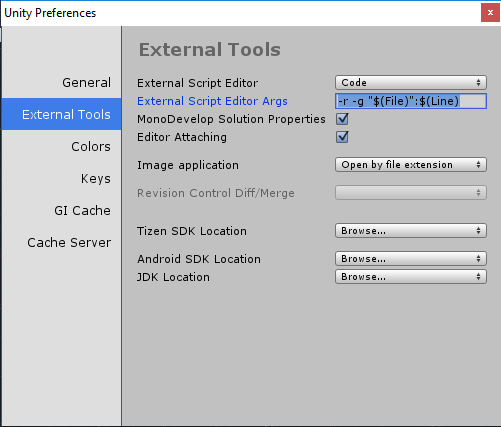
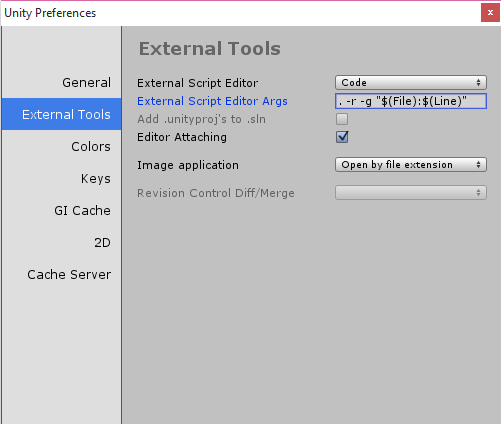
Modified command line arguments
Prefixed the command line arguments with a dot, '.', to open the file in
the root folder context. Improves usability by opening the root folder
instead of just the file.

diff --git a/docs/runtimes/unity.md b/docs/runtimes/unity.md
@@ -121,7 +121,7 @@ Choose the `-CSharp` version of the solution file and VS Code will light up.
 
 >**Note:** This option is only available in the Windows version of Unity.  For Mac users, the Unity plug-in described above handles setting up the command line arguments.
 
-To configure Unity to pass this data to VS Code, set the Editor Args to be `-r -g "$(File):$(Line)`.  You can see this step completed in the image above.
+To configure Unity to pass this data to VS Code, set the Editor Args to be `. -r -g "$(File):$(Line)"`.  You can see this step completed in the image above.
 
 
 
